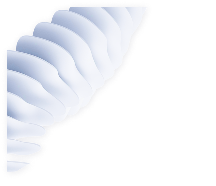
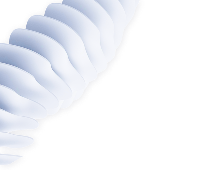
Work steps | tablet

diff --git a/src/app/components/work-steps/step-card/step-card-desktop.tsx b/src/app/components/work-steps/step-card/step-card-desktop.tsx
@@ -1,0 +1,65 @@
+import React from 'react';
+import { Dots } from '@/app/icons/dots';
+import { ArrowRoundedRight } from '@/app/icons/arrow-rounded-right';
+import RetinaImage from '@/app/ui-lit/retina-image';
+
+interface StepCardProps {
+  img: string;
+  title: string | React.ReactNode;
+  subtitle: string;
+  index: number;
+}
+
+function StepCardDesktop({ img, subtitle, title, index }: StepCardProps) {
+  const isLast = index === 7;
+  const classNames = isLast ? 'col-span-2' : 'col-span-1';
+  const isAccent = index === 2;
+  const withArrow =
+    index === 0 || index === 1 || index === 3 || index === 4 || index === 6;
+
+  return (
+    <div className={`relative rounded-20 bg-light-gray p-20 ${classNames}`}>
+      {!isAccent && (
+        <div className={'absolute right-20 top-20'}>
+          <Dots />
+        </div>
+      )}
+
+      {isAccent && (
+        <div
+          className={
+            'absolute right-10 top-10 rounded-[60px] bg-white px-20 py-8'
+          }
+        >
+          <p className={'h6 text-dark-blue'}>
+            *В формате <br />
+            “Под ключ”
+          </p>
+        </div>
+      )}
+
+      <img src={img} alt="" className={'h-[40px] w-[55px]'} />
+      <p className={`h4 mt-10 text-dark-blue ${isLast ? 'max-w-[234px]' : ''}`}>
+        {title}
+      </p>
+      <p className={`h6 mt-10 text-black-70 ${isLast ? 'max-w-[238px]' : ''}`}>
+        {subtitle}
+      </p>
+      {withArrow && (
+        <div
+          className={
+            'absolute right-[-26px] top-1/2 z-10 -translate-y-1/2 rotate-[270deg] rounded-full bg-white p-8'
+          }
+        >
+          <ArrowRoundedRight
+            width={20}
+            height={20}
+            className={'rotate-90 text-dark-blue'}
+          />
+        </div>
+      )}
+    </div>
+  );
+}
+
+export default StepCardDesktop;

diff --git a/src/app/components/work-steps/work-steps.tsx b/src/app/components/work-steps/work-steps.tsx
@@ -1,6 +1,8 @@
 import React from 'react';
-import { StepCard } from '@/app/components/work-steps/step-card';
 import { WORK_STEPS_ID } from '@/app/consts';
+import WorkStepsMobile from '@/app/components/work-steps/work-steps-mobile';
+import WorkStepsDesktop from '@/app/components/work-steps/work-steps-desktop';
+import RetinaImage from '@/app/ui-lit/retina-image';
 
 const cards = [
   {
@@ -62,20 +64,20 @@ const cards = [
 
 export const WorkSteps = () => {
   return (
-    <section className={'section'} id={WORK_STEPS_ID}>
+    <section className={'section relative'} id={WORK_STEPS_ID}>
       <p className={'h3 text-dark-blue'}>Этапы работы</p>
 
-      <div className={'mt-20 flex flex-col gap-8'}>
-        {cards.map((card, index) => (
-          <StepCard
-            key={index}
-            img={card.img}
-            title={card.title}
-            subtitle={card.subtitle}
-            isAccent={index === 2}
-            withArrow={index !== 7}
-          />
-        ))}
+      <div className={'block md:hidden'}>
+        <WorkStepsMobile cards={cards} />
+      </div>
+
+      <div className={'hidden md:block'}>
+        <WorkStepsDesktop cards={cards} />
+        <RetinaImage
+          className={'absolute bottom-0 right-0 h-[229px] w-[270px]'}
+          src1x={'/work-steps/abstract1x.png'}
+          src2x={'/work-steps/abstract1x.png'}
+        />
       </div>
     </section>
   );

diff --git a/src/app/components/work-steps/work-steps-mobile.tsx b/src/app/components/work-steps/work-steps-mobile.tsx
@@ -1,0 +1,28 @@
+import React from 'react';
+import { StepCardMobile } from '@/app/components/work-steps/step-card/step-card-mobile';
+
+interface WorkStepsMobileProps {
+  cards: Array<{
+    img: string;
+    title: string | React.ReactNode;
+    subtitle: string;
+  }>;
+}
+function WorkStepsMobile({ cards }: WorkStepsMobileProps) {
+  return (
+    <div className={'mt-20 flex flex-col gap-8'}>
+      {cards.map((card, index) => (
+        <StepCardMobile
+          key={index}
+          img={card.img}
+          title={card.title}
+          subtitle={card.subtitle}
+          isAccent={index === 2}
+          withArrow={index !== 7}
+        />
+      ))}
+    </div>
+  );
+}
+
+export default WorkStepsMobile;

diff --git a/src/app/components/work-steps/work-steps-desktop.tsx b/src/app/components/work-steps/work-steps-desktop.tsx
@@ -1,0 +1,28 @@
+import React from 'react';
+import StepCardDesktop from '@/app/components/work-steps/step-card/step-card-desktop';
+
+interface WorkStepsDesktop {
+  cards: Array<{
+    img: string;
+    title: string | React.ReactNode;
+    subtitle: string;
+  }>;
+}
+
+function WorkStepsDesktop({ cards }: WorkStepsDesktop) {
+  return (
+    <div className={'relative mt-20 grid grid-cols-3 gap-10'}>
+      {cards.map((card, index) => (
+        <StepCardDesktop
+          key={index}
+          img={card.img}
+          title={card.title}
+          subtitle={card.subtitle}
+          index={index}
+        />
+      ))}
+    </div>
+  );
+}
+
+export default WorkStepsDesktop;

diff --git a/src/app/page.tsx b/src/app/page.tsx
@@ -15,7 +15,7 @@ export default function Home() {
         <Experience />
         <Portfolio />
         <Whom />
-        {/*<WorkSteps />*/}
+        <WorkSteps />
         {/*<Price />*/}
         {/*<Faq />*/}
         {/*<Footer />*/}

diff --git a/src/app/components/work-steps/step-card/step-card-mobile.tsx b/src/app/components/work-steps/step-card/step-card-mobile.tsx
@@ -10,7 +10,7 @@ interface StepCardProps {
   withArrow?: boolean;
 }
 
-export const StepCard = ({
+export const StepCardMobile = ({
   img,
   subtitle,
   title,
